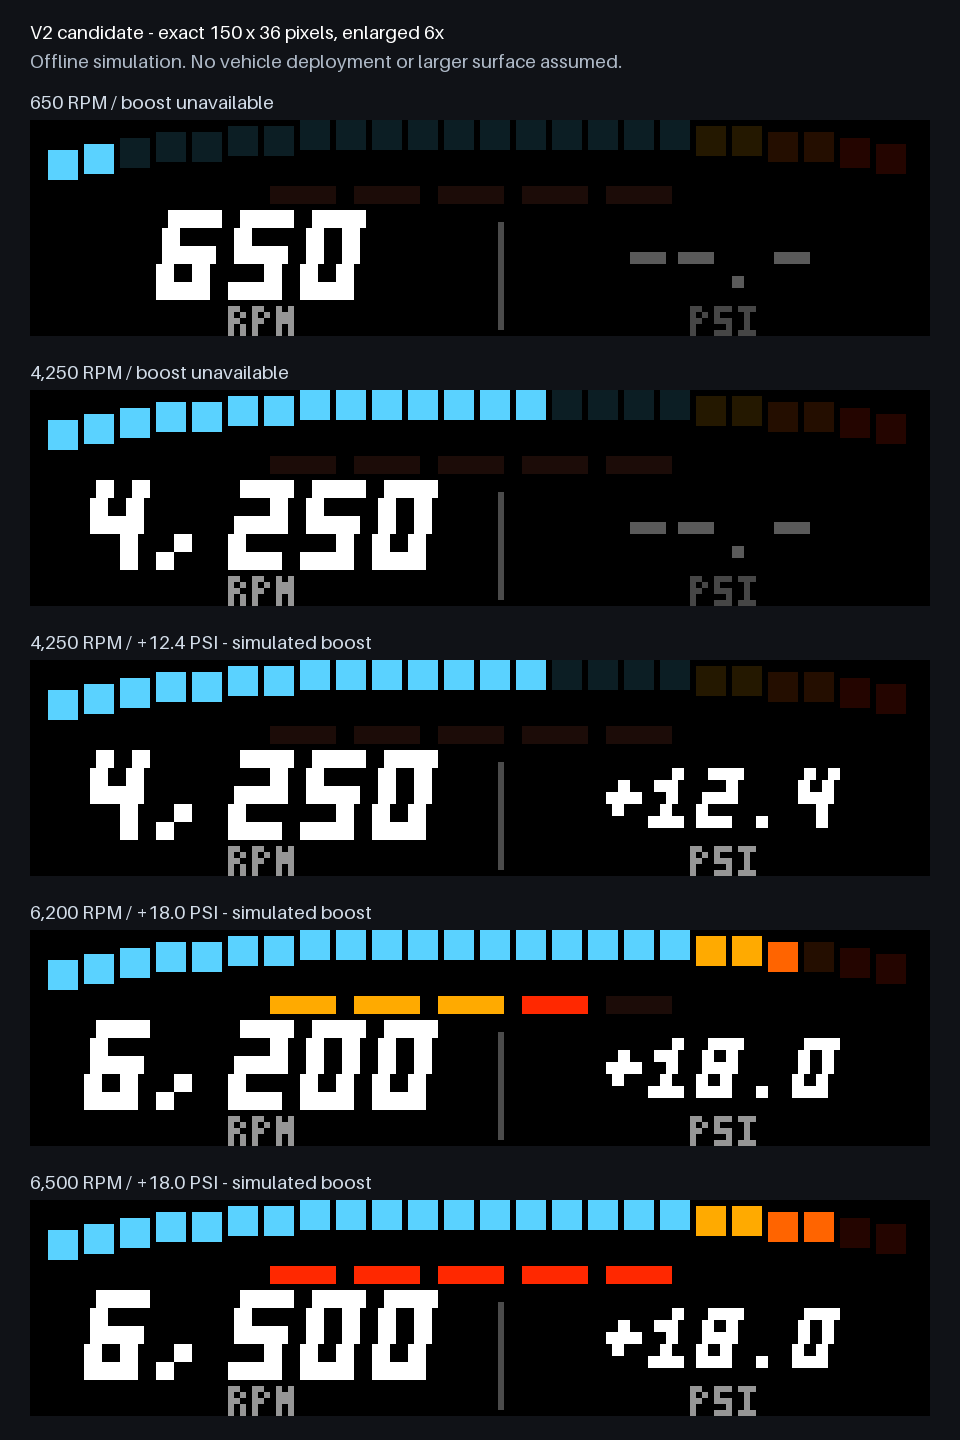
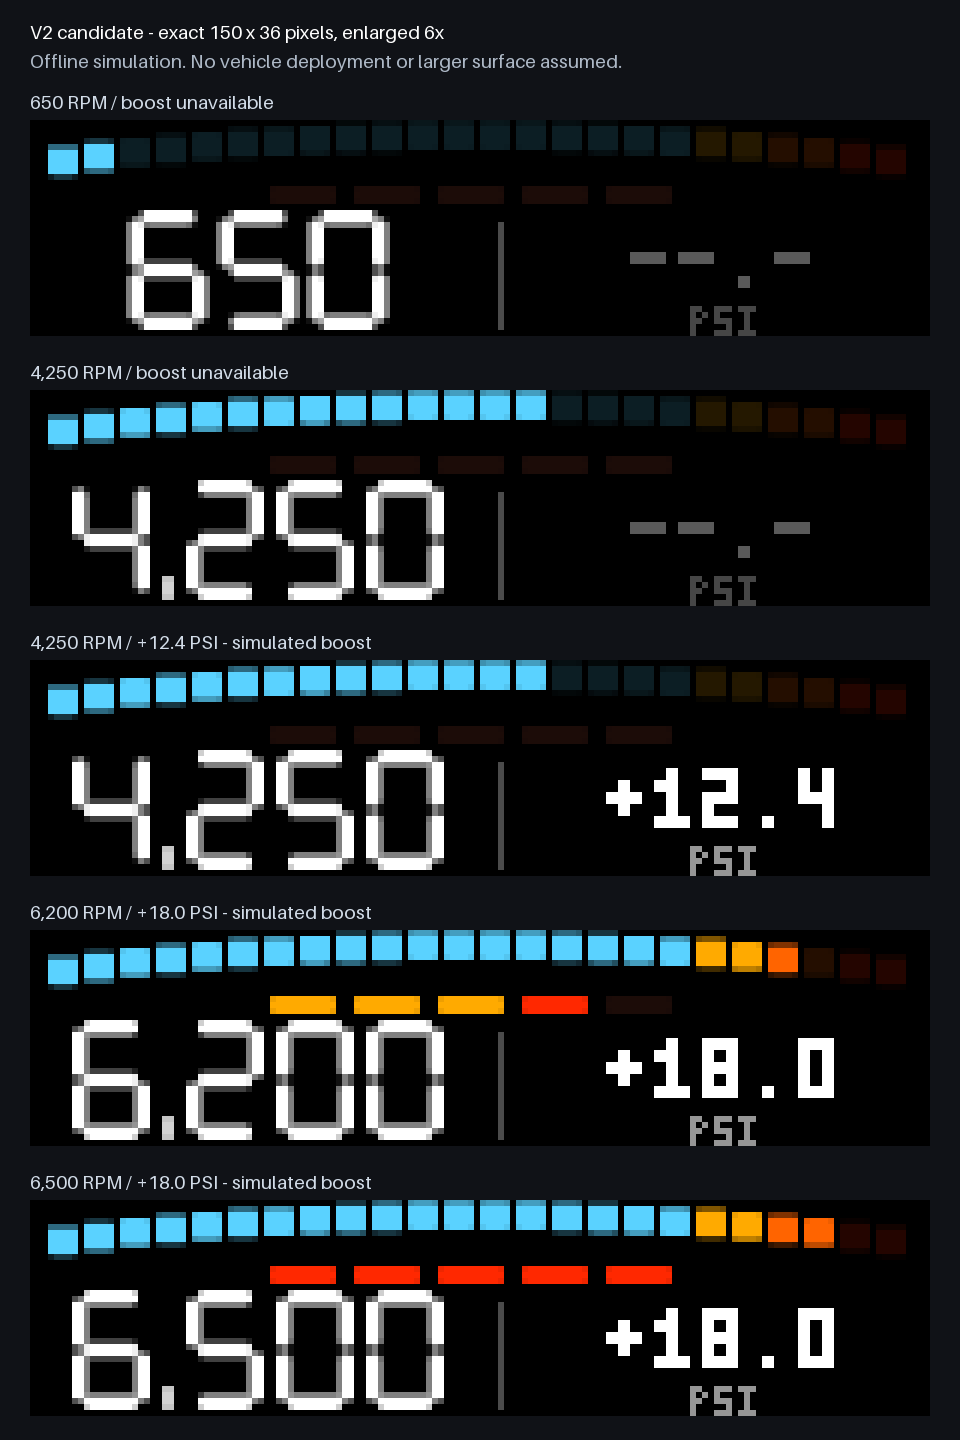
Enlarge V2 RPM digits and smooth native pixel edges

diff --git a/src/tach_bitmap.cpp b/src/tach_bitmap.cpp
@@ -99,6 +99,43 @@ void textV2(std::vector<unsigned char>& p,const char* s,int center,int y,
         if(glyph(s[i])[row*3+col]=='1')
             rect(p,x+int(i)*4*sx+col*sx+(italic?(4-row)/2:0),y+row*sy,sx,sy,value);
 }
+// Coverage sampling stays inside the native canvas; it adds edge shades, not
+// output resolution. Opaque pixels preserve the existing RLE32 contract.
+void roundedV2(std::vector<unsigned char>& p,double x,double y,double w,double h,
+               double radius,unsigned char r,unsigned char g,unsigned char b) {
+    for(int yy=int(y);yy<y+h&&yy<(int)H;++yy)for(int xx=int(x);xx<x+w&&xx<(int)W;++xx) {
+        if(xx<0||yy<0)continue;
+        unsigned hits=0;
+        for(unsigned sy=0;sy<4;++sy)for(unsigned sx=0;sx<4;++sx) {
+            double px=xx+(sx+0.5)/4,py=yy+(sy+0.5)/4;
+            if(px<x||px>x+w||py<y||py>y+h)continue;
+            double cx=px<x+radius?x+radius:(px>x+w-radius?x+w-radius:px);
+            double cy=py<y+radius?y+radius:(py>y+h-radius?y+h-radius:py);
+            double dx=px-cx,dy=py-cy;
+            if(dx*dx+dy*dy<=radius*radius)++hits;
+        }
+        unsigned n=4*(yy*W+xx);
+        const unsigned char c[]={b,g,r};
+        for(unsigned k=0;k<3;++k)p[n+k]=(c[k]*hits+p[n+k]*(16-hits)+8)/16;
+    }
+}
+void rpmV2(std::vector<unsigned char>& p,unsigned rpm) {
+    // Upright rounded seven-segment digits, 20 px tall; narrow grouping comma.
+    static const unsigned masks[]={0x3f,0x06,0x5b,0x4f,0x66,0x6d,0x7d,0x07,0x7f,0x6f};
+    char number[12];std::snprintf(number,sizeof(number),"%u",rpm);
+    unsigned len=0;while(number[len])++len;
+    double width=len*15-2+(len>3?4:0),x=38-width/2;
+    for(unsigned i=0;i<len;++i) {
+        if(len>3&&i==len-3){roundedV2(p,x,31,2,4,0.7,210,210,210);x+=4;}
+        unsigned m=masks[number[i]-'0'];
+        const double segments[7][4]={{2,0,9,2.4},{10.6,1.5,2.4,8},
+            {10.6,10.5,2.4,8},{2,17.6,9,2.4},{0,10.5,2.4,8},
+            {0,1.5,2.4,8},{2,8.8,9,2.4}};
+        for(unsigned s=0;s<7;++s)if(m&(1U<<s))
+            roundedV2(p,x+segments[s][0],15+segments[s][1],segments[s][2],segments[s][3],1.0,255,255,255);
+        x+=15;
+    }
+}
 }
 std::vector<unsigned char> tachBitmapV2(const Frame& f) {
     std::vector<unsigned char> p(W*H*4,0);
@@ -106,30 +143,27 @@ std::vector<unsigned char> tachBitmapV2(const Frame& f) {
     if(!f.visible||!(f.rpm>=0&&f.rpm<=7700))return p;
     // Shallow arch: fit the reference's silhouette without claiming more pixels.
     for(unsigned i=0;i<24;++i) {
-        int d=int(i)-12,y=d*d/28;
+        double d=double(i)-11.5,y=0.25+d*d/32;
         unsigned char r=90,g=210,b=255;
         if(i>=18){r=255;g=i>=22?40:(i>=20?100:170);b=0;}
         if(!f.tach[i].lit){r/=7;g/=7;b/=7;}
-        colorRect(p,3+6*i,y,5,5,r,g,b);
+        roundedV2(p,3+6*i,y,5,4.75,0.6,r,g,b);
     }
     unsigned lights=f.shiftLights>5?5:f.shiftLights;
     for(unsigned i=0;i<5;++i) {
         bool on=i<lights;
-        colorRect(p,40+14*i,11,11,3,on?255:28,
+        roundedV2(p,40+14*i,11,11,3,0.7,on?255:28,
                   on?((lights==5||i>=3)?40:170):12,on?0:8);
     }
     char number[16];unsigned rpm=(unsigned)(f.rpm+0.5);
-    if(rpm>=1000)std::snprintf(number,sizeof(number),"%u,%03u",rpm/1000,rpm%1000);
-    else std::snprintf(number,sizeof(number),"%u",rpm);
-    textV2(p,number,38,15,3,3,255,true);
+    rpmV2(p,rpm);
     colorRect(p,78,17,1,18,75,75,75);
     // boostVisible must come from a freshness-validated source. The standalone
     // V1 worker never sets it; only the offline demo supplies synthetic values.
     bool boost=f.boostVisible&&f.boostPsi>=-30&&f.boostPsi<=60;
     if(boost)std::snprintf(number,sizeof(number),"%+.1f",f.boostPsi);
     else std::snprintf(number,sizeof(number),"--.-");
-    textV2(p,number,115,18,2,2,boost?255:90,true);
-    textV2(p,"RPM",38,31,1,1,150,false);
+    textV2(p,number,115,18,2,2,boost?255:90,false);
     textV2(p,"PSI",115,31,1,1,boost?150:70,false);
     return p;
 }

diff --git a/tests/test_tach_bitmap.cpp b/tests/test_tach_bitmap.cpp
@@ -32,8 +32,15 @@ int main(){
  std::vector<unsigned char> missing=supra::tachBitmapV2(sport);
  assert(missing.size()==21600);
  for(unsigned i=3;i<missing.size();i+=4)assert(missing[i]==255);
- unsigned cyan=4*(5*150+3);
+ unsigned cyan=4*(7*150+4);
  assert(missing[cyan]==255&&missing[cyan+1]==210&&missing[cyan+2]==90);
+ bool shaded=false,bottom=false;
+ for(unsigned y=15;y<35;++y)for(unsigned x=3;x<74;++x) {
+  unsigned v=missing[4*(y*150+x)];
+  if(v>0&&v<255)shaded=true;
+  if(y==34&&v>0)bottom=true;
+ }
+ assert(shaded&&bottom); // native edge coverage and restored 20px digit height
  sport.boostVisible=true;sport.boostPsi=12.4;p=supra::tachBitmapV2(sport);
  assert(p!=missing);
  // Boost changes only the right readout, never RPM, arc or shift indication.

diff --git a/docs/V2-UX.md b/docs/V2-UX.md
@@ -8,7 +8,7 @@ The owner supplied [this reference](design/v2-reference.png): a curved segmented
 
 ![Exact V2 renderer previews](design/v2-150x36-preview.png)
 
-These are actual C++ pixel outputs enlarged with nearest-neighbor scaling, not a photograph or projected-HUD proof. The reference has much more resolution and a taller aspect ratio; its glow, typography and proportions cannot be reproduced literally in the current canvas. The candidate uses a shallow arc, 15-pixel-high RPM digits, a smaller PSI readout, and five steady shift lights. Inactive arc segments remain dim; the lit amount follows RPM.
+These are actual C++ pixel outputs enlarged with nearest-neighbor scaling, not a photograph or projected-HUD proof. The reference has much more resolution and a taller aspect ratio; its glow, typography and proportions cannot be reproduced literally in the current canvas. The refined candidate removes stepped italic RPM glyphs and the small RPM label to restore V1-sized digits. Rounded seven-segment strokes and arc/shift-light edges use 4-by-4 coverage sampling into the same opaque native pixels; this adds edge shades, not display resolution. The candidate uses a shallow arc, 20-pixel-high upright RPM digits, a smaller PSI readout, and five steady shift lights. Inactive arc segments remain dim; the lit amount follows RPM.
 
 The cyan/orange/red palette is canonical BGRA. The existing measured red/blue boundary correction still applies in the transport. V2's cyan projection and tiny labels must be judged on the actual windshield; offline appearance does not prove readability.
 
